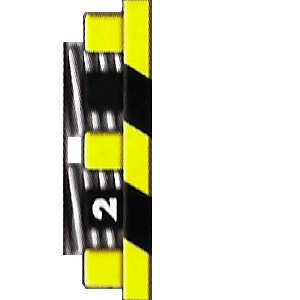
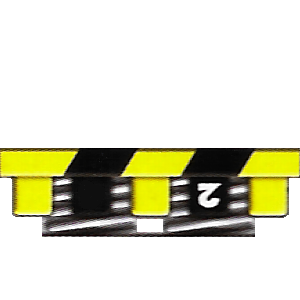
Changes images

diff --git a/src/main/java/game/gameObjects/tiles/PushPanel.java b/src/main/java/game/gameObjects/tiles/PushPanel.java
@@ -3,8 +3,7 @@ package game.gameObjects.tiles;
 import game.Player;
 import game.gameActions.MoveRobot;
 import javafx.scene.Node;
-import javafx.scene.image.Image;
-import javafx.scene.image.ImageView;
+import utilities.ImageHandler;
 import utilities.Utilities.Orientation;
 
 /**
@@ -48,23 +47,13 @@ public class PushPanel extends Attribute {
     public Node createImage() {
         String path = "";
         if (registers.length == 1) {
-            path = "/tiles/pushpanel/pushpanel_" + registers[0] + "c.png";
+            path = "/tiles/pushPanel/pushPanel_" + registers[0] + "c.png";
         } else if (registers.length == 2) {
-            path = "/tiles/pushpanel/pushpanel_24c.png";
+            path = "/tiles/pushPanel/pushPanel_24c.png";
         } else if (registers.length == 3) {
-            path = "/tiles/pushpanel/pushpanel_135c.png";
+            path = "/tiles/pushPanel/pushPanel_135c.png";
         }
 
-        var stream = getClass().getResourceAsStream(path);
-        var image = new Image(stream, 60, 60, true, true);
-        var imageView = new ImageView(image);
-
-        switch (orientation) {
-            case RIGHT -> imageView.setRotate(90);
-            case DOWN -> imageView.setRotate(180);
-            case LEFT -> imageView.setRotate(270);
-        }
-
-        return imageView;
+        return ImageHandler.createImageView(path, orientation);
     }
 }
